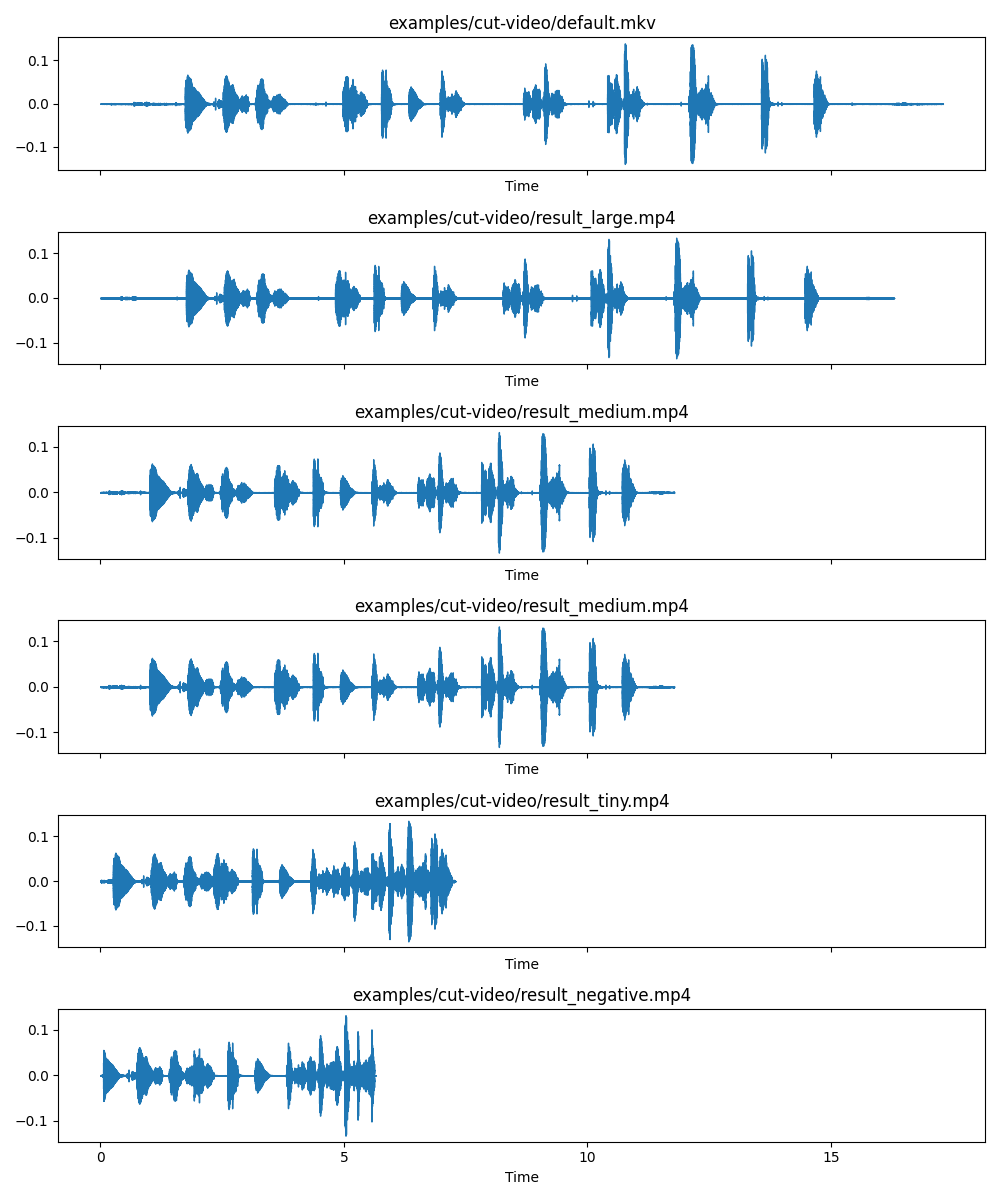
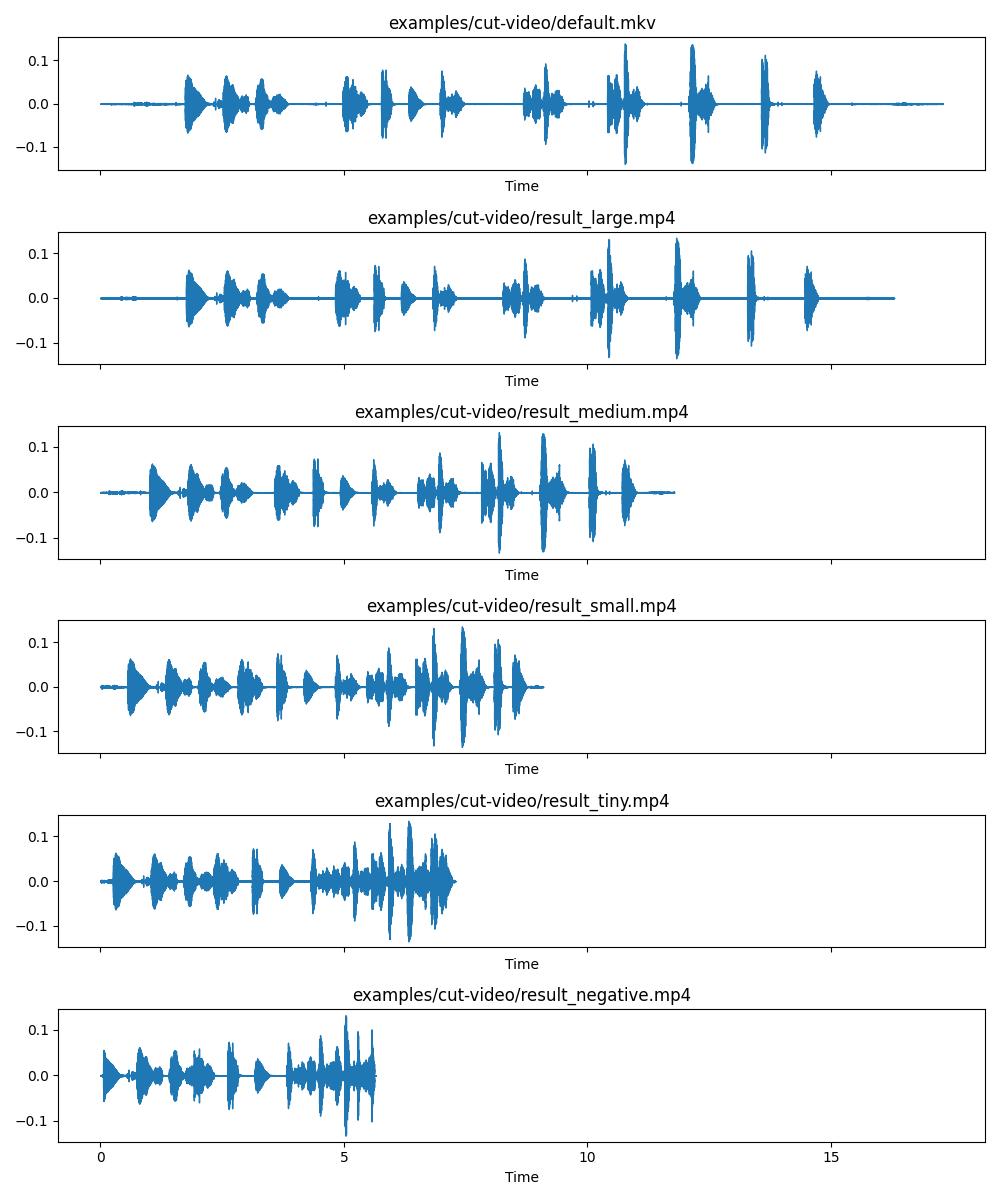
change force-db from Argument to Option in plot

Changed region(s): [[0.124, 0.4933, 0.682, 0.6167]]

diff --git a/vmh/plot.py b/vmh/plot.py
@@ -1,7 +1,7 @@
 import matplotlib.pyplot as plt
 from librosa import load
 from librosa.display import waveshow
-from typer import Typer, Argument
+from typer import Typer, Option
 
 plot = Typer(no_args_is_help=True)
 
@@ -20,7 +20,7 @@ def compare_waves(
     files: list[str],
     fig_name: str,
     fig_size: tuple[float, float] = (10, 12),
-    force_db: bool = Argument(True, help='Force to use 1 to -1 dbs in plot'),
+    force_db: bool = Option(True, help='Force to use 1 to -1 dbs in plot'),
 ) -> None:
     """Plot a figure with N audio waves for comparison."""
     _, ax = plt.subplots(

diff --git a/README.md b/README.md
@@ -497,20 +497,20 @@ Create a comparative plot of multiple audio waves. Useful for comparing the effe
 
 ```
 vmh plot compare-waves --help
-                                                                                     
- Usage: vmh plot compare-waves [OPTIONS] FILES... FIG_NAME [FORCE_DB]
+
+ Usage: vmh plot compare-waves [OPTIONS] FILES... FIG_NAME
 
  Plot a figure with N audio waves for comparison.
 
-╭─ Arguments ───────────────────────────────────────────────────────────────────────╮
-│ *    files         FILES...    [default: None] [required]                         │
-│ *    fig_name      TEXT        [default: None] [required]                         │
-│      force_db      [FORCE_DB]  Force to use 1 to -1 dbs in plot [default: True]   │
-╰───────────────────────────────────────────────────────────────────────────────────╯
-╭─ Options ─────────────────────────────────────────────────────────────────────────╮
-│ --fig-size        <FLOAT FLOAT>...  [default: 10, 12]                             │
-│ --help                              Show this message and exit.                   │
-╰───────────────────────────────────────────────────────────────────────────────────╯
+╭─ Arguments ────────────────────────────────────────────────────────────────────────────────────────────╮
+│ *    files         FILES...  [default: None] [required]                                                │
+│ *    fig_name      TEXT      [default: None] [required]                                                │
+╰────────────────────────────────────────────────────────────────────────────────────────────────────────╯
+╭─ Options ──────────────────────────────────────────────────────────────────────────────────────────────╮
+│ --fig-size                     <FLOAT FLOAT>...  [default: 10, 12]                                     │
+│ --force-db    --no-force-db                      Force to use 1 to -1 dbs in plot [default: force-db]  │
+│ --help                                           Show this message and exit.                           │
+╰────────────────────────────────────────────────────────────────────────────────────────────────────────╯
 ```
 
 ### All options

diff --git a/examples/cut-video/README.md b/examples/cut-video/README.md
@@ -17,6 +17,19 @@ Some examples, changing the `distance` parameter.
 
 ![example](./out.png)
 
+CLI to generate this image:
+```bash
+vmh plot compare-waves \
+  examples/cut-video/default.mkv \
+  examples/cut-video/result_large.mp4 \
+  examples/cut-video/result_medium.mp4 \
+  examples/cut-video/result_small.mp4 \
+  examples/cut-video/result_tiny.mp4 \
+  examples/cut-video/result_negative.mp4 \
+  examples/cut-video/out.png \
+  --no-force-db
+```
+
 All these examples using defaults parameters to `threshold`, `silence-time`, `bitrate` and `codec`.
 
 The `--preset` used is `ultrafast`
